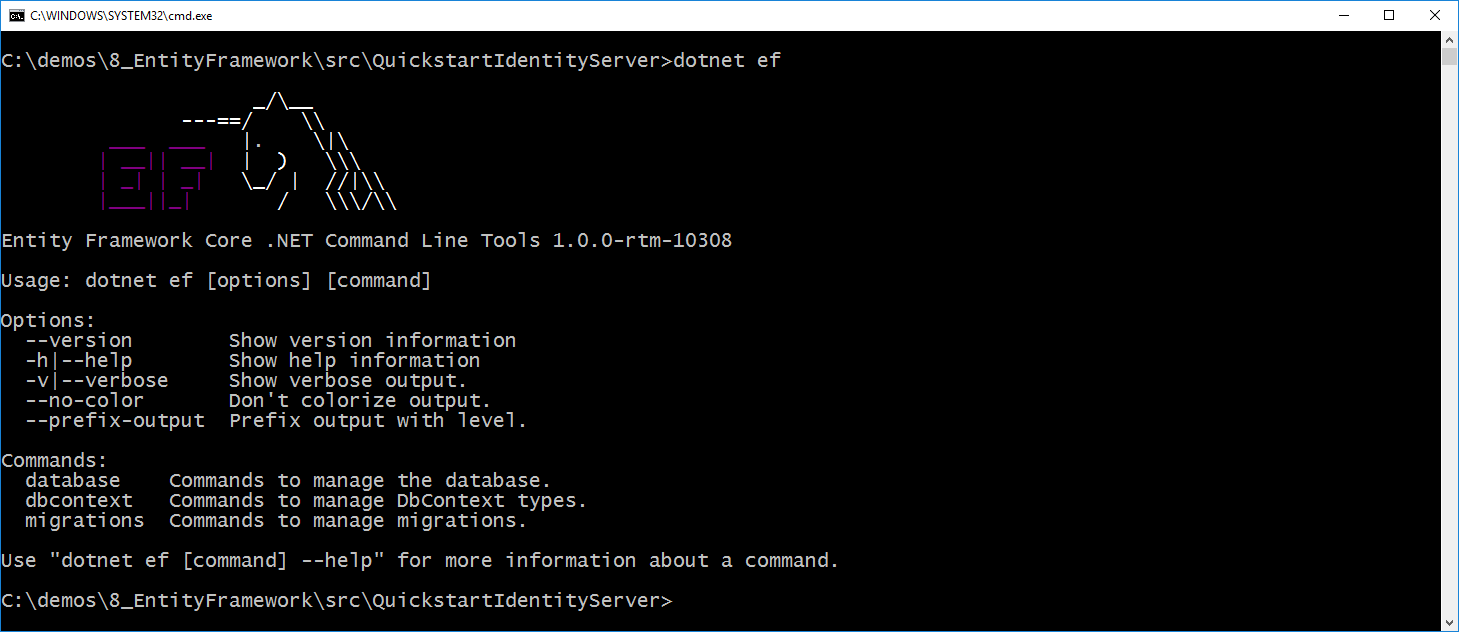
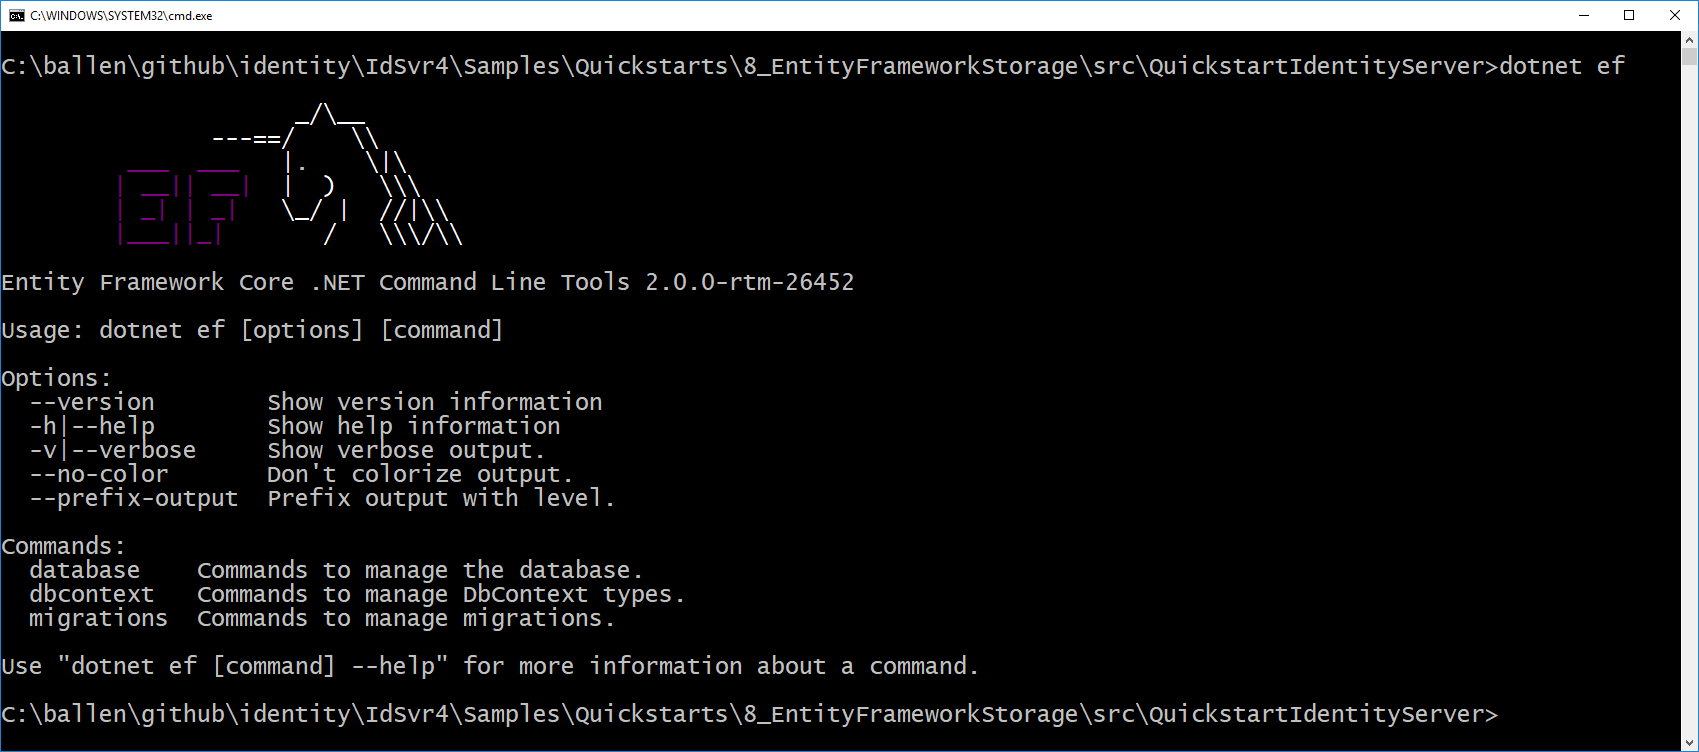
update QS 8

diff --git a/docs/quickstarts/8_entity_framework.rst b/docs/quickstarts/8_entity_framework.rst
@@ -1,6 +1,6 @@
 .. _refEntityFrameworkQuickstart:
-Using EntityFramework Core for configuration data
-=================================================
+Using EntityFramework Core for configuration and operational data
+=================================================================
 
 IdentityServer is designed for extensibility, and one of the extensibility points is the storage mechanism used for data that IdentityServer needs.
 This quickstart shows how to configure IdentityServer to use EntityFramework (EF) as the storage mechanism for this data (rather than using the in-memory implementations we had been using up until now).
@@ -10,40 +10,42 @@ IdentityServer4.EntityFramework
 
 There are two types of data that we are moving to the database. 
 The first is the configuration data (resources and clients).
-The second is operational data that IdentityServer produces as it's being used.
+The second is operational data that IdentityServer produces as it's being used (tokens, codes, and consents).
 These stores are modeled with interfaces, and we provide an EF implementation of these interfaces in the `IdentityServer4.EntityFramework` Nuget package.
 
-Get started by adding a reference to the `IdentityServer4.EntityFramework` Nuget package the IdentityServer project (use at least version "1.0.1").
+Get started by adding a reference to the `IdentityServer4.EntityFramework` Nuget package the IdentityServer project.
 
 .. image:: images/8_nuget.png
 
-Adding SqlServer
-^^^^^^^^^^^^^^^^
+Using SqlServer
+^^^^^^^^^^^^^^^
 
 Given EF's flexibility, you can then use any EF-supported database.
 For this quickstart we will use the LocalDb version of SqlServer that comes with Visual Studio.
 
-To add SqlServer, we need several more NuGet packages.  
+Database Schema Changes and Using EF Migrations
+^^^^^^^^^^^^^^^^^^^^^^^^^^^^^^^^^^^^^^^^^^^^^^^
 
-Add `Microsoft.EntityFrameworkCore.SqlServer`:
+The `IdentityServer4.EntityFramework` package contains entity classes that map from IdentityServer's models.
+As IdentityServer's models change, so will the entity classes in `IdentityServer4.EntityFramework`.
+As you use `IdentityServer4.EntityFramework` and upgrade over time, you are responsible for your own database schema and changes necessary to that schema as the entity classes change.
+One approach for managing those changes is to use EF migrations, and this quickstart will show how that can be done.
+If migrations are not your preference, then you can manage the schema changes in any way you see fit.
 
-.. image:: images/8_nuget_ef_sqlserver.png
+.. Note:: SQL scripts for SqlServer are maintained for the entities in `IdentityServer4.EntityFramework`. They are located `here <https://github.com/IdentityServer/IdentityServer4.EntityFramework/tree/dev/src/Host/Migrations/IdentityServer>`_.
 
-And `Microsoft.EntityFrameworkCore.Tools`:
-
-.. image:: images/8_nuget_ef_tools.png
-
-Next, we need to add some command line tooling (more details `here <https://docs.microsoft.com/en-us/ef/core/miscellaneous/cli/dotnet>`_).
-Unfortunately this must be done by hand-editing your `.csproj` file.
+In addition to tracking schema changes with EF migrations, we will also use it to create the initial schema in the database.
+This requires the use of the EF Core tooling (more details `here <https://docs.microsoft.com/en-us/ef/core/miscellaneous/cli/dotnet>`_).
+We will add those now, and unfortunately this must be done by hand-editing your `.csproj` file.
 To edit the `.csproj` by right-click the project and select "Edit projectname.csproj":
 
 .. image:: images/8_edit_csproj.png
 
 And then add the below snippet before the end `</Project>` element::
 
-    <ItemGroup>
-        <DotNetCliToolReference Include="Microsoft.EntityFrameworkCore.Tools.DotNet" Version="1.0.0" />
-    </ItemGroup>
+  <ItemGroup>
+    <DotNetCliToolReference Include="Microsoft.EntityFrameworkCore.Tools.DotNet" Version="2.0.0" />
+  </ItemGroup>
 
 It should look something like this:
 
@@ -61,27 +63,37 @@ Configuring the stores
 The next step is to replace the current calls to ``AddInMemoryClients``, ``AddInMemoryIdentityResources``, and ``AddInMemoryApiResources`` in the ``Configure`` method in `Startup.cs`.
 We will replace them with this code::
 
-  using Microsoft.EntityFrameworkCore;
-  using System.Reflection;
+    const string connectionString = @"Data Source=(LocalDb)\MSSQLLocalDB;database=IdentityServer4.Quickstart.EntityFramework-2.0.0;trusted_connection=yes;";
+    var migrationsAssembly = typeof(Startup).GetTypeInfo().Assembly.GetName().Name;
 
-  public void ConfigureServices(IServiceCollection services)
-  {
-      services.AddMvc();
+    // configure identity server with in-memory stores, keys, clients and scopes
+    services.AddIdentityServer()
+        .AddDeveloperSigningCredential()
+        .AddTestUsers(Config.GetUsers())
+        // this adds the config data from DB (clients, resources)
+        .AddConfigurationStore(options =>
+        {
+            options.ConfigureDbContext = builder =>
+                builder.UseSqlServer(connectionString,
+                    sql => sql.MigrationsAssembly(migrationsAssembly));
+        })
+        // this adds the operational data from DB (codes, tokens, consents)
+        .AddOperationalStore(options =>
+        {
+            options.ConfigureDbContext = builder =>
+                builder.UseSqlServer(connectionString,
+                    sql => sql.MigrationsAssembly(migrationsAssembly));
 
-      var connectionString = @"server=(localdb)\mssqllocaldb;database=IdentityServer4.Quickstart.EntityFramework;trusted_connection=yes";
-      var migrationsAssembly = typeof(Startup).GetTypeInfo().Assembly.GetName().Name;
-            
-      // configure identity server with in-memory users, but EF stores for clients and resources
-      services.AddIdentityServer()
-          .AddTemporarySigningCredential()
-          .AddTestUsers(Config.GetUsers())
-          .AddConfigurationStore(builder =>
-              builder.UseSqlServer(connectionString, options =>
-                  options.MigrationsAssembly(migrationsAssembly)))
-          .AddOperationalStore(builder =>
-              builder.UseSqlServer(connectionString, options =>
-                  options.MigrationsAssembly(migrationsAssembly)));
-  }
+            // this enables automatic token cleanup. this is optional.
+            options.EnableTokenCleanup = true;
+            options.TokenCleanupInterval = 30;
+        });
+
+You might need these namespaces added to the file::
+
+    using Microsoft.EntityFrameworkCore;
+    using System.Reflection;
+
 
 The above code is hard-coding a connection string, which you should feel free to change if you wish.
 Also, the calls to ``AddConfigurationStore`` and ``AddOperationalStore`` are registering the EF-backed store implementations.
@@ -106,7 +118,6 @@ In the command prompt run these two commands::
 
     dotnet ef migrations add InitialIdentityServerPersistedGrantDbMigration -c PersistedGrantDbContext -o Data/Migrations/IdentityServer/PersistedGrantDb
     dotnet ef migrations add InitialIdentityServerConfigurationDbMigration -c ConfigurationDbContext -o Data/Migrations/IdentityServer/ConfigurationDb
-
 
 It should look something like this:
 
